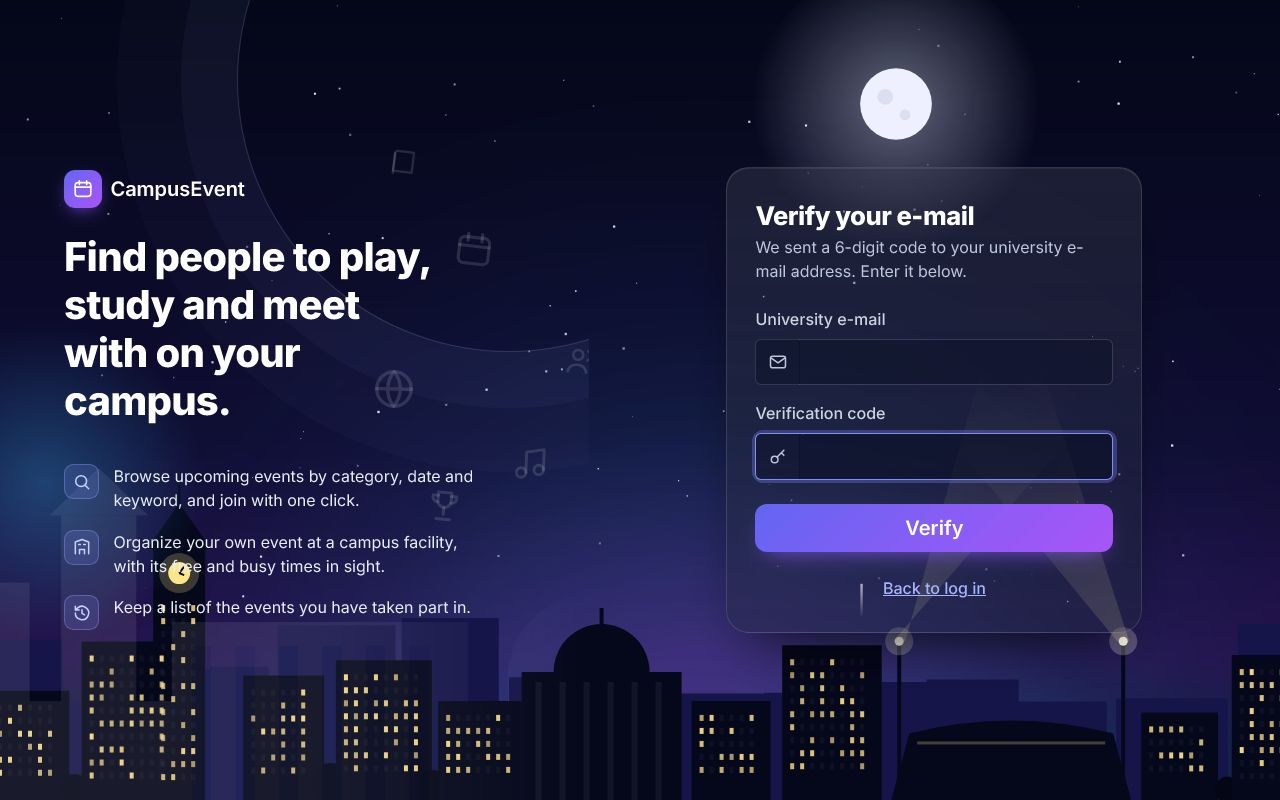
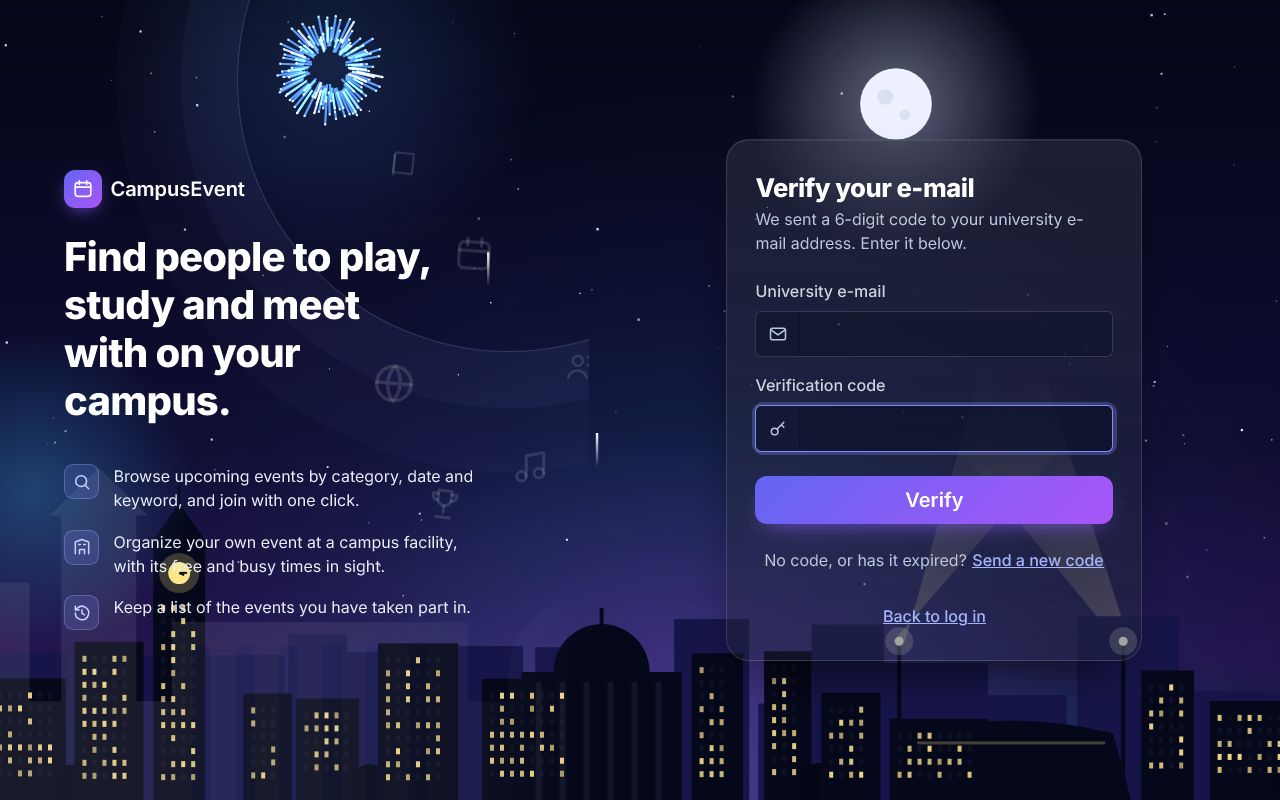
UI/UX design 1.1: Send a new code (flows, screens, privacy, mockups, open points)
As Heval noted in the review of #21: resend_code exists now and the button is
built in this PR. The verify screenshot is taken again with the new button.

diff --git a/docs/ui_ux_design.md b/docs/ui_ux_design.md
@@ -3,8 +3,8 @@
 | Field | Value |
 |---|---|
 | Task | 2.3 UI/UX Design (owners: E. Arda & Emir; this version written by Emir) |
-| Version | 1.0, 20.11.2026 |
-| Status | Describes the web UI as built (PR #7, #14) with the visual refresh of PR #20 (all merged) |
+| Version | 1.1, 20.11.2026 (1.1: *Send a new code*, PR #31) |
+| Status | Describes the web UI as built (PR #7, #14, #31) with the visual refresh of PR #20 |
 | Builds on | [Requirements Specification](requirements_specification.md), [use cases](requirements/README.md), [early mockups](analysis/ui/README.md) of the Requirement Analysis Report, [Software Design Report](software_design_report.md) (layer 1) |
 | Code | [`src/campusevent/web/`](../src/campusevent/web/README.md) |
 | Screens | [`docs/design/ui/`](design/ui/) (taken from the demo, `scripts/run_demo.py`, on 19.11.2026) |
@@ -110,10 +110,10 @@ The admin sees all waiting requests, soonest first, with everything needed for a
 flowchart LR
   A[Sign up<br/>name, university e-mail, password] -->|error| A
   A --> B[Verify your e-mail<br/>6-digit code]
-  B -->|wrong or expired code| B
+  B -->|wrong or expired code:<br/>try again or Send a new code| B
   B --> C[Log in<br/>'Your e-mail address is verified.']
   C -->|wrong e-mail or password| C
-  C -->|account not verified yet| B
+  C -->|account not verified yet:<br/>enter the code or Send a new code| B
   C --> D[Start page of the role]
 ```
 The e-mail address is not put into the address of the verify page, so it does not end up in server logs. After login every role starts on its own page (section 3).
@@ -128,8 +128,8 @@ Screens of the student, then the admin. All screenshots are from the demo with t
 
 - Brand panel on the left (what CampusEvent does, in three points), form on a glass card on the right; on phones only the card.
 - *Show password* button on every password field; the sign-up page shows a **password strength guide** while typing.
-- Sign-up continues on a separate *Verify your e-mail* step for the 6-digit code ([screen](design/ui/03_verify_code.jpg)).
-- A failed login says only "Invalid e-mail or password", so the page does not reveal which accounts exist ([screen](design/ui/04_log_in_error.jpg)). An unverified account is offered the code page instead.
+- Sign-up continues on a separate *Verify your e-mail* step for the 6-digit code ([screen](design/ui/03_verify_code.jpg)). Under *Verify*, **Send a new code** sends a fresh code to the address typed in the form; older codes stop working (UC-01 5a). It is a second button of the same form, so it works without JavaScript. One browser can ask once a minute.
+- A failed login says only "Invalid e-mail or password", so the page does not reveal which accounts exist ([screen](design/ui/04_log_in_error.jpg)). An unverified account is offered the code page or a new code (UC-02 3a).
 
 ### 5.2 Find Events (UC-05, UC-06)
 ![Find Events](design/ui/05_find_events.jpg)
@@ -282,6 +282,7 @@ An empty page never stays blank; it explains why and offers the next step:
 - Event pages and lists show **names only**; e-mail addresses never appear in pages or calendar files (NFR-05).
 - Requests that are waiting or rejected are visible only to their organizer (waiting ones also to the admin on *Event Requests*); for other students they do not exist (404, BR-15).
 - Availability on My Profile is private ("Your availability is private").
+- *Send a new code* answers the same for every address ("If this address belongs to an account that is not verified yet, a new code is on its way"), so it cannot be used to find out who has an account. The address is sent in the form, never in a link.
 - The screenshots in this document use invented demo accounts and events; no real person's data is shown.
 - **Third-party files.** The Inter typeface is loaded from **Google Fonts** (`fonts.googleapis.com`, `fonts.gstatic.com`) and Bootstrap from **jsDelivr**. To deliver these files, the visitor's browser contacts those servers, so Google and jsDelivr can see the visitor's IP address and the time of the visit (no account data and no page content are sent). Under KVKK (NFR-05) this is a transfer of personal data to a third party. The simplest fix is to serve the font and Bootstrap files from our own `static/` folder; then no request leaves our server. Until then, the privacy notice of the deployed site should mention it. This is listed as an open point in section 12.
 
@@ -297,7 +298,8 @@ The [mockups of the analysis](analysis/ui/README.md) were low-fidelity and light
 | Event approval | – | *Event Requests* page, waiting/rejected notes, corrected request | Change request CR-01 (UC-12) |
 | Student menu | Showed *Facilities* | Role-based menus | Students cannot use the facility page (NFR-04) |
 | Calendar | – | Add to calendar (.ics) | Students plan in their own calendar |
-| Time range filter, *Send a new code* | Shown | Not built | The service interface has no method for them yet (see 12) |
+| *Send a new code* | Shown | Built: a button on the verify page and on the log in page of an unverified account | `AuthService.resend_code` was added in task 3.2 |
+| Time range filter | Shown | Not built | `search_events` has no time parameter yet (see 12) |
 
 ## 11. Usability evaluation
 ### 11.1 Heuristic review (Nielsen's 10 heuristics)
@@ -325,10 +327,9 @@ A task-based test with students who did not build the system (for example 5 stud
 ## 12. Open points
 | Point | Why open | Next step |
 |---|---|---|
-| *Send a new code* (UC-01) | No service method yet | Add `AuthService.resend_code`, then a link on the verify page |
 | Time range filter (UC-05) | `search_events` has no time parameter | Backend decision |
 | *Upcoming* list on My Activities | No service method for joined, still open events | Backend decision |
-| Remove a facility block | Not in UC-08 and not in the service | Issue #19 (Harun) |
+| Remove a facility block | Was not in UC-08 and not in the service | Being added in #22 (Harun, issue #19) |
 | Real Safari (Mac, iPhone) | Only WebKit on Windows was available | Check on a team member's device |
 | Inter from Google Fonts, Bootstrap from jsDelivr | Visitors' browsers contact these servers (see 9) | Serve the files from `static/` before the final delivery, or mention it in the privacy notice |
 
